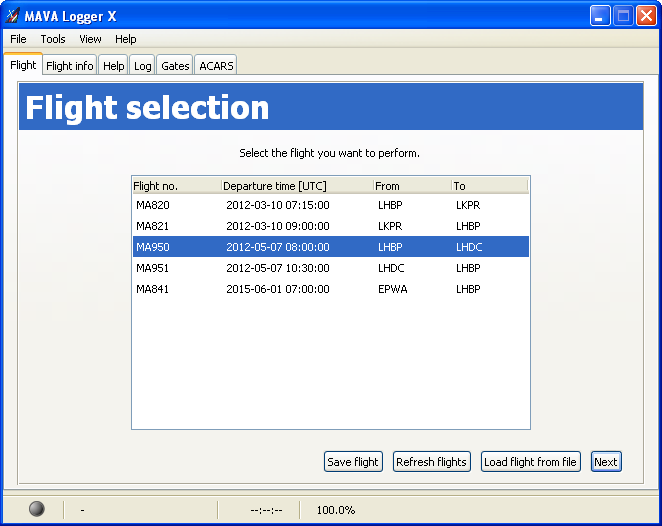
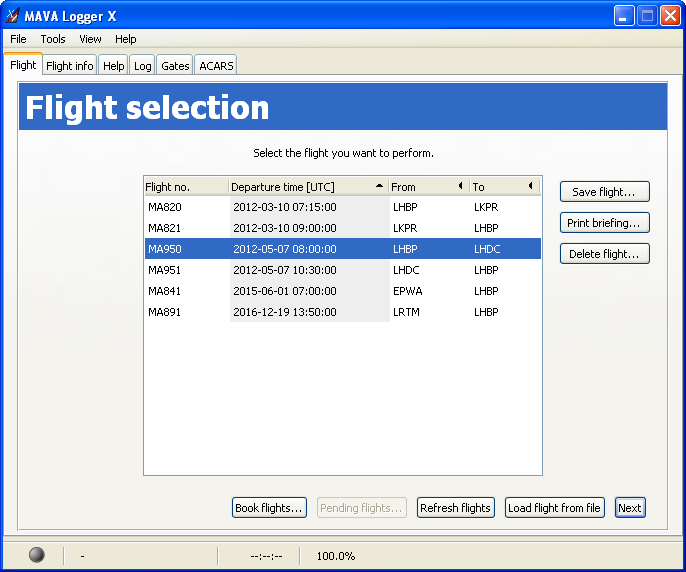
Updated the documentation

diff --git a/doc/manual/hu/index.html b/doc/manual/hu/index.html
@@ -364,12 +364,32 @@
 
   <p>
   Ha a listából kijelölünk egy járatot, akkor azt a <b>Járat
-  mentése</b> gombbal elmenthetjük. Ez akkor lehet hasznos, ha egy
+  mentése...</b> gombbal elmenthetjük. Ez akkor lehet hasznos, ha egy
   későbbi időpontban, offline szeretnénk repülni. A repülés
   előkészítése során a loggerrel bejelentkezhetünk a MAVA szerverére
   és lekérhetjük a foglalt járatok listáját. Ezután a később offline
   végrehajtani kívánt járatot elmenthetjük, majd a tényleges
   végrehajtáskor visszatölthetjük.
+  </p>
+
+  <p>
+  A kiválasztot járatra vonatkozó eligazítás kinyomtatható az
+  <b>Eligazítás nyomtatása...</b> gomb segítéségvel. A járat foglalása
+  lemondható a <b>Járat törlése...</b> gombbal. A mentés, a nyomtatás és
+  a törlés a jobb-gombos menüből is elvégezhető.
+  </p>
+
+  <p>
+  Ha nincs foglalt járatunk, vagy a meglévők egyike sem tetszik,
+  új járatot lehet <a href="#flightBooking">foglalni</a> a
+  <b>Járatfoglalás...</b> gomb alkalmazásával.
+  </p>
+
+  <p>
+  Ha van olyan járatunk, amelyet már jelentettünk, de még nem
+  javították ki vagy pedig visszautasította a javító, akkor azok száma
+  az oldal tetején megfelenik és a <b>Függő járatok...</b> gombra
+  kattintva <a href="#pendingFlights">megnézhetjük</a> azokat.
   </p>
 
   <p>
@@ -895,6 +915,124 @@
   szövegbe.
   </p>
 
+  <h2><a name="flightBooking">Járatfoglalás</a></h2>
+
+  <div align="center">
+    <img src="flightBooking.png" alt="A Járatfoglalás ablak"/>
+  </div>
+
+  <p>
+  Ezt az ablakot a
+  <a href="#flightSelectionPage">járatválasztás oldalon</a>
+  található <b>Járatfoglalás</b> gombra kattinva, az
+  <b>Eszközök/Járatfoglalás...</b> menüpontot kiválasztva vagy a <b>Ctrl+O</b>
+  billentyűkombinációt megnyomva jeleníthetjük meg.
+  </p>
+
+  <p>
+  Az ablak felső részén a járat dátumát kiválaszhatjuk. Alapértelmezésben az
+  adott napon repülhető összes járat megjelenik, mind a menetrend szerinti,
+  mind a VIP járatok. A dátum melletti részen található jelölődobozokkal
+  beállíthatjuk, hogy mely járatok maradjanak a listában.
+  </p>
+
+  <p>
+  A lejjeb lévő részen kiválaszhatjuk, hogy mely típusokkal repülhető járatok
+  maradjanak a listában. Csak azok a típusok választhatók, amelyekre
+  jogosultsággal rendelkezünk. Alaphelyzetben az összes ilyen típus ki van
+  jelölve.
+  </p>
+
+  <p>
+  Ha a listából kiválasztunk egy járatot, az ablak alján található
+  <b>Foglalás</b> gomb aktívvá válik. Rákattintva, vagy a járatra duplán
+  kattinva a foglalás folyamata elindul. Ha a járat menetrend szerinti, az
+  alábbi dialógus ablak jelenik ekkor meg:
+  </p>
+
+  <div align="center">
+    <img src="flightBookingRegular.png"
+         alt="Járatfoglaló ablak menetrend szerinti járathoz"/>
+  </div>
+
+  <p>
+  Mivel a menetrend szerinti járatok valójában két, egy induló és egy érkező
+  járatot jelentenek, mindkét irányra vonatkozóan szerepelnek adatok az
+  ablakban. Kiválaszthatjuk, hogy melyik repülőgéppel szeretnénk lerepülni
+  a járatot, bár az egyiket véletlenszerűen felkínálja a program.
+  </p>
+
+  <p>
+  A VIP járatokhoz tartozó ablak egy kicsit eltér:
+  </p>
+
+  <div align="center">
+    <img src="flightBookingVIP.png"
+         alt="Járatfoglaló ablak VIP járathoz"/>
+  </div>
+
+  <p>
+  A VIP járatok egyirányúak, még ha esetleg egymás után következnek
+  is. Emellett van egy előre megadott repülési dátumuk is, amit azonban az
+  ablakban meg lehet változtatni. A menetrend szerint járatokhoz hasonlóan a
+  repülőgépet is kiválaszthatjuk.
+  </p>
+
+  <p>
+  Ha a <b>Foglalás</b> gomb megnyomásával megerősítjük a foglalást, az új
+  járat(ok) megjelennek a listában és lerepülhetjük azokat.
+  </p>
+
+  <h2><a name="pendingFlights">Függő járatok</a></h2>
+
+  <div align="center">
+    <img src="pendingFlights.png" alt="Függő járatok"/>
+  </div>
+
+  <p>
+  Ez az ablak két listát tartalmaz. A felső a lerepült és jelentett, de még
+  nem javított járatokat tartalmazza. A <b>Szerkesztés...</b> gombra kattintva
+  az éppen kijelölt járatot PIREP-jét szerkeszthetjük. A PIREP szerkesztő ablak
+  hasonlít a <a href="#pirepViewer">PIREP megjelenítő</a> ablakhoz, de bizonyos
+  adatok módosíthatók. Ha elkészültünk a módosításokkal, a <b>Mentés</b>
+  gombbal elmenthetjük azokat a szerverre.
+  </p>
+
+  <p>
+  Ha egy járatot megint le szeretnénk repülni, nyomjuk meg az <b>Újra</b>
+  gombot, a járat törléséhez pedig a <b>Törlés</b>t. E két gomb akkor is aktív,
+  ha több járatot jelöltünk ki, amely esetben a választot művelet az összes
+  kiválasztott járatra vonatkozik.
+  <p>
+
+  <p>
+  Az alsó lista az elutasított járatokat tartalmazza.
+  A <b>Megtekintés...</b> gomb megjeleníti a
+  <a href="#pirepViewer">PIREP megtekintő ablakot</a> a járat adataival,
+  valamint egy új, <i>Üzenet</i> című fület a javító esetleges üzenetével.
+  </p>
+
+  <p>
+  Az <b>Újra</b> és a <b>Törlés</b> gomb ennél a listánál is működik.
+  </p>
+
+  <h2><a name="acceptedFlights">Elfogadott járatok</a></h2>
+
+  <p>
+  Az  <b>Eszközök/Elfogadott járatok...</b> menüpont kiválasztásával
+  kilistázhatjuk a már lerepült és elfogadott járatokat:
+  </p>
+
+  <div align="center">
+    <img src="acceptedFlights.png" alt="Elfogadott járatok"/>
+  </div>
+
+  <p>
+  Ha kiválasztunk egy járatot és rákattintunk a <b>Megtekintés</b> gombra,
+  megjelenik a <a href="#pirepViewer">PIREP megtekintő</a> ablak a kiválasztott
+  járat adataival és a korábban már említett <i>Üzenet</i> fül.
+  </p>
+
   <h2><a name="loadingPIREPs">PIREP-ek betöltése</a></h2>
 
   <p>
@@ -932,9 +1070,9 @@
   napló olvasható.
   </p>
 
-  <div align="center">
+  <a name="pirepViewer"><div align="center">
     <img src="pirepViewer.png" alt="PIREP megtekintő ablak"/>
-  </div>
+  </div></a>
 
   <h2><a name="checklistEditor">Ellenőrzőlisták szerkeszése</a></h2>
 

diff --git a/doc/manual/en/index.html b/doc/manual/en/index.html
@@ -367,11 +367,31 @@
 
   <p>
   If you have selected a flight, you can also save it by using
-  the <b>Save flight</b> button. This is useful when planning to fly
+  the <b>Save flight...</b> button. This is useful when planning to fly
   offline at some later time. When preparing for that flight, you can
   properly log in to the MAVA server, and acquire the list of your
   booked flights. Then you can save the flight you wish to perform
   later offline, on which occasion, you can load the saved flight.
+  </p>
+
+  <p>
+  The briefing for a flight can be printed using the <b>Print briefing...</b>
+  button. The booking can be cancelled by pressing the
+  <b>Delete flight...</b> button. Saving, printing and deleting are also
+  available from the right-button menu as well.
+  </p>
+
+  <p>
+  If you have no booked flights or you do not like the ones booked,
+  you can <a href="#flightBooking">book</a> a new flight if you click
+  on the <b>Book flights...</b> button.
+  </p>
+
+  <p>
+  If you have flights reported but not yet reviewed or rejected,
+  the numbers of them are displayed at the top and the
+  <b>Pending flights...</b> is available
+  to <a href="#pendingFlights">review</a> them.
   </p>
 
   <p>
@@ -887,6 +907,122 @@
   report. It can help a lot with finding a solution to the problem.
   </p>
 
+  <h2><a name="flightBooking">Booking flights</a></h2>
+
+  <div align="center">
+    <img src="flightBooking.png" alt="The flight booking window"/>
+  </div>
+
+  <p>
+  This window can be displayed either by clicking the <b>Book flights...</b>
+  button on the <a href="#flightSelectionPage">flight selection page</a>
+  of the wizard, by selecting the <b>Tools/Book flights...</b> menu item or
+  by pressing <b>Ctrl+O</b>.
+  </p>
+
+  <p>
+  At the top, you can select the date of your flight. By default, all flights
+  available on the selected day are listed, including regular, scheduled
+  flights and VIP flights. The checkboxes at the top can be used to restrict
+  the type of the flights to be displayed.
+  </p>
+
+  <p>
+  In the frame below you can select the aircraft type(s) for which to list the
+  flights. Only those types are available for which you are rated. By default
+  all such types are enabled.
+  </p>
+
+  <p>
+  If you select a flight from the list, the <b>Book</b> button at the bottom is
+  highlighted. By clicking it or by double clicking on the flight, you can
+  initiate booking it. For regular flights the following dialog box is
+  displayed:
+  </p>
+
+  <div align="center">
+    <img src="flightBookingRegular.png"
+         alt="The flight booking window for regular flights"/>
+  </div>
+
+  <p>
+  As regular flights are actually two flights, one outbound, one inbound, some
+  data for both are displayed. You can also select which aircraft you would
+  like to fly with from the fleet, though one is randomly offered as a default.
+  </p>
+
+  <p>
+  The dialog for VIP flights is slightly different:
+  </p>
+
+  <div align="center">
+    <img src="flightBookingVIP.png"
+         alt="The flight booking window for VIP flights"/>
+  </div>
+
+  <p>
+  VIP flights are considered one-way flights, even if there is a series of
+  them. They also have an intended date on which to fly them, but the dialog
+  allows you to select the actual date. As for regular flights, you can
+  also select the plane to use.
+  </p>
+
+  <p>
+  When you confirm the booking by pressing the <b>Book</b> button, the new
+  flight(s) appear in the flight list and can be flown.
+  </p>
+
+  <h2><a name="pendingFlights">Pending flights</a></h2>
+
+  <div align="center">
+    <img src="pendingFlights.png" alt="Pending flights"/>
+  </div>
+
+  <p>
+  This window contains two lists. The top one contains the flights you have
+  performed and reported, but have not yet been reviewed. If you select a
+  flight from this list, you can edit the corresponding PIREP using the
+  <b>Edit...</b> button. The PIREP editor dialog is similar to the
+  <a href="#pirepViewer">PIREP viewer dialog</a>, but you can modify certain
+  data. If the modifications are ready, click the <b>Save</b> to store
+  your changes in the server.
+  </p>
+
+  <p>
+  To perform a flight again, press the <b>Refly</b>, to delete it,
+  press <b>Delete</b>. These buttons are also available when you select more
+  than one flights, in which case, the operation will affect all selected
+  flights.
+  <p>
+
+  <p>
+  The list at the bottom consists of the flights that have been reviewed and
+  rejected by the reviewer. The <b>View...</b> button displays the
+  <a href="#pirepViewer">PIREP Viewer</a> for the flight, with a new
+  tab <i>Message</i>, containing the reviewer's message, if any.
+  </p>
+
+  <p>
+  The <b>Refly</b> and <b>Delete</b> buttons work here too.
+  </p>
+
+  <h2><a name="acceptedFlights">Accepted fligts</a></h2>
+
+  <p>
+  By selecting the <b>Tools/Accepted flights...</b> menu item, you can
+  display a list of the flights you have performed and have been accepted:
+  </p>
+
+  <div align="center">
+    <img src="acceptedFlights.png" alt="Accepted flights"/>
+  </div>
+
+  <p>
+  Selecting a flight and clicking <b>View</b> displays the
+  <a href="#pirepViewer">PIREP Viewer</a> dialog for the given flight with the
+  <i>Message</i> tab optionally containing the reviewer's message.
+  </p>
+
   <h2><a name="loadingPIREPs">Loading PIREPs</a></h2>
 
   <p>
@@ -921,9 +1057,9 @@
   user. The <i>Log</i> tab contains the flight log.
   </p>
 
-  <div align="center">
+  <a name="pirepViewer"><div align="center">
     <img src="pirepViewer.png" alt="The PIREP Viewer"/>
-  </div>
+  </div></a>
 
   <h2><a name="checklistEditor">Editing checklists</a></h2>
 
